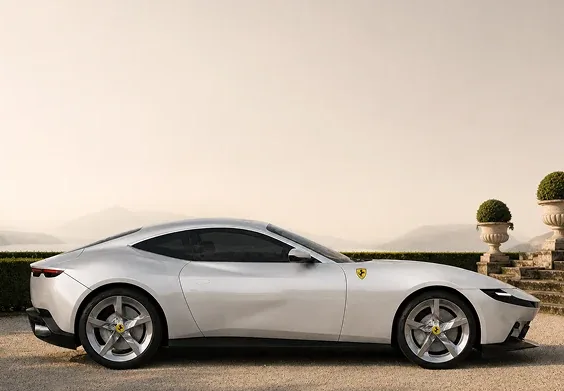
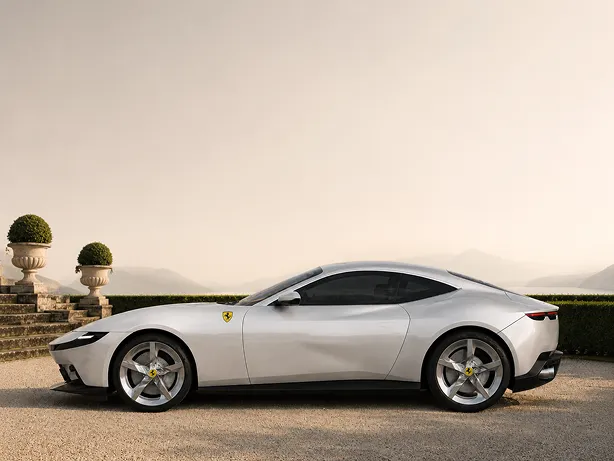
Главная, «Найдите свой формат»: новые фото + точное кадрирование из Figma
- Заменены фото на присланные -new (без зеркалирования: right-facing машины в
  Figma сделаны флипом, фото уже смотрят в нужную сторону).
- Кадрирование каждой карточки на каждом брейке перенесено 1:1 из макета: бокс
  картинки (сдвиг + размер в % карточки) + object-fit: cover. Артборды 1163:5190
  (1920) и 1115:6091..6285 (1536→390). Это заменяет прежнее ручное позиционирование.
- Внедорожник на 768: object-position к низу, чтобы не тонули колёса.

TODO: десктопная центральная карточка «Внедорожники» (анфас) ждёт новое фото под
бокс 750×693 — числа уже проставлены, фото заказчик пришлёт.

diff --git a/app/home.css b/app/home.css
@@ -2158,3 +2158,98 @@
     scroll-snap-align: start;
   }
 }
+
+/* ===== Кадрирование карточек «Найдите свой формат» — точные боксы из Figma =====
+   Для каждой карточки на каждом брейке взят бокс картинки из макета (сдвиг + размер
+   в % от карточки) + object-fit: cover. Это воспроизводит ручное кадрирование
+   дизайнера (у каждой карточки свой зум). Ориентация фото — как в макете, без
+   зеркалирования: right-facing машины в Figma сделаны флипом, здесь фото уже смотрят
+   в нужную сторону, поэтому берётся видимый бокс (для флипнутых left = x − width).
+   Артборды: 1163:5190 (1920) и 1115:6091..6285 (1536→390). Эти правила идут в конце
+   файла и перекрывают старые пофрагментные оверрайды выше. */
+.bento .body-type-card__img,
+.body-type-card--wide .body-type-card__img {
+  position: absolute;
+  inset: auto;
+  max-width: none;
+  transform: none;
+  object-fit: cover;
+}
+
+/* 1920 (bento) */
+.bento__a .body-type-card__img { left: -4.43%; top: -11.00%; width: 108.87%; height: 117.90%; }
+.bento__b .body-type-card__img { left: -31.91%; top: -17.90%; width: 164.18%; height: 158.06%; }
+.bento__c .body-type-card__img { left: -6.73%; top: -8.81%; width: 113.14%; height: 113.15%; }
+.bento__d .body-type-card__img { left: -10.99%; top: -19.69%; width: 121.63%; height: 121.48%; }
+.bento__e .body-type-card__img { left: -20.74%; top: -36.32%; width: 141.49%; height: 136.32%; }
+.body-type-card--wide .body-type-card__img { left: -2.89%; top: -24.14%; width: 105.78%; height: 148.28%; }
+
+/* 1536 (bento) */
+@media (max-width: 1536px) {
+  .bento__a .body-type-card__img { left: -2.63%; top: -7.37%; width: 103.95%; height: 114.10%; }
+  .bento__b .body-type-card__img { left: -36.18%; top: -25.00%; width: 172.37%; height: 167.95%; }
+  .bento__c .body-type-card__img { left: -5.04%; top: 0%; width: 109.87%; height: 100%; }
+  .bento__d .body-type-card__img { left: -6.14%; top: -12.82%; width: 111.84%; height: 113.46%; }
+  .bento__e .body-type-card__img { left: -17.11%; top: -34.29%; width: 137.28%; height: 133.97%; }
+  .body-type-card--wide .body-type-card__img { left: -0.71%; top: -37.18%; width: 106.43%; height: 174.36%; }
+}
+
+/* 1200 (bento) */
+@media (max-width: 1366px) {
+  .bento__a .body-type-card__img { left: -5.00%; top: -2.54%; width: 109.44%; height: 107.25%; }
+  .bento__b .body-type-card__img { left: -20.28%; top: -14.86%; width: 145.56%; height: 155.07%; }
+  .bento__c .body-type-card__img { left: -55.93%; top: -17.48%; width: 208.33%; height: 121.15%; }
+  .bento__d .body-type-card__img { left: -7.78%; top: 0%; width: 114.44%; height: 103.62%; }
+  .bento__e .body-type-card__img { left: -17.78%; top: -21.38%; width: 139.44%; height: 121.38%; }
+  .body-type-card--wide .body-type-card__img { left: -0.89%; top: -22.46%; width: 108.04%; height: 158.33%; }
+}
+
+/* 960 (2 колонки) */
+@media (max-width: 960px) {
+  .bento__a .body-type-card__img { left: -2.07%; top: -38.02%; width: 102.07%; height: 152.52%; }
+  .bento__b .body-type-card__img { left: -8.05%; top: -40.00%; width: 117.01%; height: 190.08%; }
+  .bento__c .body-type-card__img { left: -7.36%; top: -54.81%; width: 111.95%; height: 206.56%; }
+  .bento__d .body-type-card__img { left: 0%; top: -32.06%; width: 100%; height: 138.32%; }
+  .bento__e .body-type-card__img { left: -14.25%; top: -68.85%; width: 128.74%; height: 170.84%; }
+  .body-type-card--wide .body-type-card__img { left: -12.64%; top: -14.96%; width: 162.99%; height: 141.53%; }
+}
+
+/* 768 (2 колонки) */
+@media (max-width: 768px) {
+  .bento__a .body-type-card__img { left: 0%; top: -22.11%; width: 104.23%; height: 133.17%; }
+  .bento__b .body-type-card__img { left: -17.11%; top: -38.69%; width: 135.99%; height: 188.44%; }
+  .bento__c .body-type-card__img { left: -14.45%; top: 0.84%; width: 119.47%; height: 102.01%; object-position: 50% 92%; }
+  .bento__d .body-type-card__img { left: -5.90%; top: -30.65%; width: 113.57%; height: 134.17%; }
+  .bento__e .body-type-card__img { left: -20.35%; top: -60.97%; width: 140.90%; height: 160.30%; }
+  .body-type-card--wide .body-type-card__img { left: -13.27%; top: 0.34%; width: 161.06%; height: 119.60%; }
+}
+
+/* 640 (2 колонки) */
+@media (max-width: 640px) {
+  .bento__a .body-type-card__img { left: 0%; top: -6.39%; width: 100%; height: 113.50%; }
+  .bento__b .body-type-card__img { left: -15.79%; top: -23.80%; width: 134.39%; height: 166.79%; }
+  .bento__c .body-type-card__img { left: -12.28%; top: -15.28%; width: 113.33%; height: 116.70%; }
+  .bento__d .body-type-card__img { left: -7.02%; top: -20.78%; width: 116.84%; height: 123.09%; }
+  .bento__e .body-type-card__img { left: -19.30%; top: -44.40%; width: 140.00%; height: 141.75%; }
+  .body-type-card--wide .body-type-card__img { left: -10.53%; top: -16.34%; width: 154.39%; height: 132.15%; }
+}
+
+/* 480 (2 колонки) */
+@media (max-width: 480px) {
+  .bento__a .body-type-card__img { left: 0%; top: 1.28%; width: 100%; height: 103.43%; }
+  .bento__b .body-type-card__img { left: -16.28%; top: -17.77%; width: 137.21%; height: 154.82%; }
+  .bento__c .body-type-card__img { left: -2.79%; top: 1.71%; width: 102.79%; height: 96.36%; }
+  .bento__d .body-type-card__img { left: -4.65%; top: -6.42%; width: 109.30%; height: 104.71%; }
+  .bento__e .body-type-card__img { left: -14.42%; top: -24.20%; width: 130.70%; height: 120.13%; }
+  .body-type-card--wide .body-type-card__img { left: -7.91%; top: -3.43%; width: 147.91%; height: 114.98%; }
+}
+
+/* 390 (2 колонки) */
+@media (max-width: 430px) {
+  .bento__a .body-type-card__img { left: 0%; top: -4.45%; width: 100%; height: 113.06%; }
+  .bento__b .body-type-card__img { left: -15.88%; top: -22.55%; width: 134.71%; height: 166.49%; }
+  .bento__c .body-type-card__img { left: -10.00%; top: -17.51%; width: 113.53%; height: 117.51%; }
+  .bento__d .body-type-card__img { left: -5.88%; top: -15.13%; width: 111.76%; height: 116.62%; }
+  .bento__e .body-type-card__img { left: -15.29%; top: -33.24%; width: 132.35%; height: 133.53%; }
+  .body-type-card--wide .body-type-card__img { left: -9.41%; top: -13.95%; width: 152.94%; height: 130.86%; }
+}
